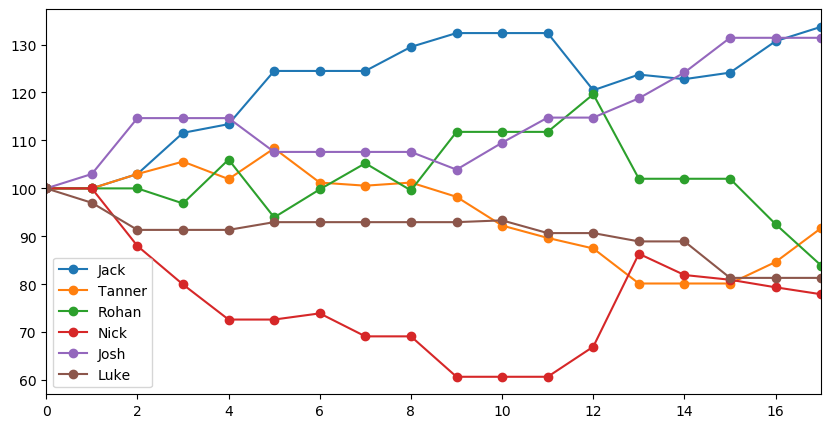
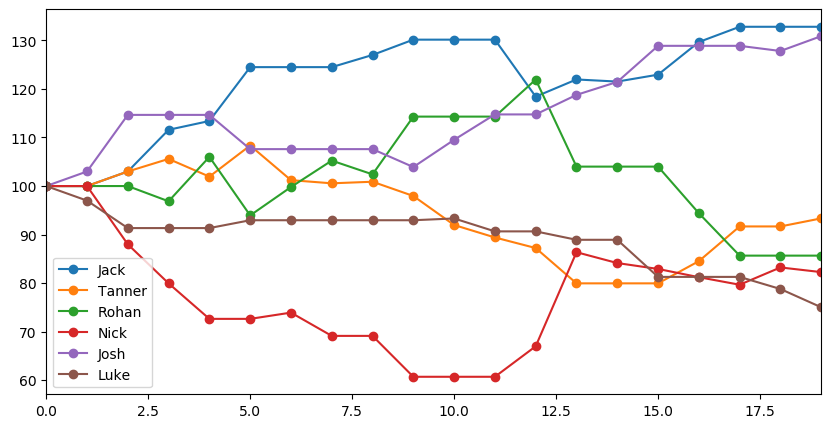
mar 18 update

diff --git a/index.html b/index.html
@@ -42,7 +42,7 @@
   <tr class="w3-white">
     <td>1</td>
     <td>Jack</td>
-    <td>133.7</td>
+    <td>132.8</td>
     <td>27-9-3</td>
     <td>0.731</td>
   </tr>
@@ -50,41 +50,41 @@
   <tr class="w3-white">
     <td>2</td>
     <td>Josh</td>
-    <td>131.4</td>
-    <td>19-6-2</td>
-    <td>0.741</td>
+    <td>130.9</td>
+    <td>23-7-2</td>
+    <td>0.75</td>
   </tr>
 
   <tr class="w3-white">
     <td>3</td>
     <td>Tanner</td>
-    <td>91.7</td>
-    <td>17-21-4</td>
-    <td>0.452</td>
+    <td>93.3</td>
+    <td>19-22-4</td>
+    <td>0.467</td>
   </tr>
 
   <tr class="w3-white">
     <td>4</td>
     <td>Rohan</td>
-    <td>83.9</td>
+    <td>85.7</td>
     <td>15-19-0</td>
     <td>0.441</td>
   </tr>
 
   <tr class="w3-white">
     <td>5</td>
-    <td>Luke</td>
-    <td>81.3</td>
-    <td>6-14-1</td>
-    <td>0.31</td>
+    <td>Nick</td>
+    <td>82.3</td>
+    <td>14-28-0</td>
+    <td>0.333</td>
   </tr>
 
   <tr class="w3-white">
     <td>6</td>
-    <td>Nick</td>
-    <td>77.9</td>
-    <td>11-26-0</td>
-    <td>0.297</td>
+    <td>Luke</td>
+    <td>75.0</td>
+    <td>6-19-1</td>
+    <td>0.25</td>
   </tr>
 
 
@@ -110,6 +110,86 @@
 </div>
 
 <div class="w3-container">
+<h4>Pickett Park &nbsp (3/17/2021)</h4>
+<table class="w3-table w3-striped w3-bordered">
+<tbody>
+
+<tr class="w3-theme">
+  <th><strong>Player</strong></th>
+  <th><strong>Score</strong></th>
+  <th><strong>Rating Change</strong></th>
+</tr>
+
+
+  <tr class="w3-white">
+    <td>Josh</td>
+    <td>1</td>
+    <td>+3.1</td>
+  </tr>
+
+  <tr class="w3-white">
+    <td>Tanner</td>
+    <td>3</td>
+    <td>+1.7</td>
+  </tr>
+
+  <tr class="w3-white">
+    <td>Nick</td>
+    <td>4</td>
+    <td>-1.0</td>
+  </tr>
+
+  <tr class="w3-white">
+    <td>Luke</td>
+    <td>6</td>
+    <td>-3.8</td>
+  </tr>
+
+
+</tbody>
+</table>
+<p></p>
+</div>
+
+<!-- Recent 2 -->
+<div class="w3-container">
+<h4>Slayter Hill &nbsp (3/16/2021)</h4>
+<table class="w3-table w3-striped w3-bordered">
+<tbody>
+
+<tr class="w3-theme">
+  <th><strong>Player</strong></th>
+  <th><strong>Score</strong></th>
+  <th><strong>Rating Change</strong></th>
+</tr>
+
+
+  <tr class="w3-white">
+    <td>Nick</td>
+    <td>-2</td>
+    <td>+3.6</td>
+  </tr>
+
+  <tr class="w3-white">
+    <td>Josh</td>
+    <td>1</td>
+    <td>-1.1</td>
+  </tr>
+
+  <tr class="w3-white">
+    <td>Luke</td>
+    <td>5</td>
+    <td>-2.5</td>
+  </tr>
+
+
+</tbody>
+</table>
+<p></p>
+</div>
+
+<!-- Recent 3 -->
+<div class="w3-container">
 <h4>Washout Woods &nbsp (3/13/2021)</h4>
 <table class="w3-table w3-striped w3-bordered">
 <tbody>
@@ -124,111 +204,25 @@
   <tr class="w3-white">
     <td>Jack</td>
     <td>4</td>
-    <td>+3.0</td>
+    <td>+3.1</td>
   </tr>
 
   <tr class="w3-white">
     <td>Tanner</td>
     <td>4</td>
-    <td>+7.1</td>
+    <td>+7.2</td>
   </tr>
 
   <tr class="w3-white">
     <td>Nick</td>
     <td>5</td>
-    <td>-1.5</td>
-  </tr>
-
-  <tr class="w3-white">
-    <td>Rohan</td>
-    <td>10</td>
-    <td>-8.6</td>
-  </tr>
-
-
-</tbody>
-</table>
-<p></p>
-</div>
-
-<!-- Recent 2 -->
-<div class="w3-container">
-<h4>Washout Waters &nbsp (3/13/2021)</h4>
-<table class="w3-table w3-striped w3-bordered">
-<tbody>
-
-<tr class="w3-theme">
-  <th><strong>Player</strong></th>
-  <th><strong>Score</strong></th>
-  <th><strong>Rating Change</strong></th>
-</tr>
-
-
-  <tr class="w3-white">
-    <td>Jack</td>
-    <td>-6</td>
-    <td>+6.6</td>
-  </tr>
-
-  <tr class="w3-white">
-    <td>Tanner</td>
-    <td>-5</td>
-    <td>+4.5</td>
-  </tr>
-
-  <tr class="w3-white">
-    <td>Nick</td>
-    <td>-3</td>
     <td>-1.6</td>
   </tr>
 
   <tr class="w3-white">
     <td>Rohan</td>
-    <td>-2</td>
-    <td>-9.5</td>
-  </tr>
-
-
-</tbody>
-</table>
-<p></p>
-</div>
-
-<!-- Recent 3 -->
-<div class="w3-container">
-<h4>Murdock Park &nbsp (3/12/2021)</h4>
-<table class="w3-table w3-striped w3-bordered">
-<tbody>
-
-<tr class="w3-theme">
-  <th><strong>Player</strong></th>
-  <th><strong>Score</strong></th>
-  <th><strong>Rating Change</strong></th>
-</tr>
-
-
-  <tr class="w3-white">
-    <td>Josh</td>
-    <td>-1</td>
-    <td>+7.2</td>
-  </tr>
-
-  <tr class="w3-white">
-    <td>Jack</td>
-    <td>2</td>
-    <td>+1.4</td>
-  </tr>
-
-  <tr class="w3-white">
-    <td>Nick</td>
-    <td>6</td>
-    <td>-1.0</td>
-  </tr>
-
-  <tr class="w3-white">
-    <td>Luke</td>
-    <td>9</td>
-    <td>-7.6</td>
+    <td>10</td>
+    <td>-8.7</td>
   </tr>
 
 
@@ -255,7 +249,7 @@
 </div>
 
 <div class="w3-container">
-  <p>Last Update: 03-13-2021</p>
+  <p>Last Update: 03-18-2021</p>
   <p>View All Data:
     <a href="info/all-data.html">Logged Rounds</a>
   </p>

diff --git a/info/all-data.html b/info/all-data.html
@@ -282,6 +282,34 @@
     <td></td>
   </tr>
 
+  <tr class="w3-white">
+    <td>18</td>
+    <td>2021-03-16</td>
+    <td>Slayter Hill</td>
+    <td>45</td>
+    <td>Low</td>
+    <td></td>
+    <td></td>
+    <td></td>
+    <td>-2</td>
+    <td>1</td>
+    <td>5</td>
+  </tr>
+
+  <tr class="w3-white">
+    <td>19</td>
+    <td>2021-03-17</td>
+    <td>Pickett Park</td>
+    <td>60</td>
+    <td>Low</td>
+    <td></td>
+    <td>3</td>
+    <td></td>
+    <td>4</td>
+    <td>1</td>
+    <td>6</td>
+  </tr>
+
 
 </tbody>
 </table>

diff --git a/build_website.py b/build_website.py
@@ -11,9 +11,10 @@ from datetime import datetime
 # =================================================================
 # read file
 file_path = "Disc Golf Log.xlsx"
-sheet_name = "Log"
 
-log = pd.read_excel(file_path, sheet_name=sheet_name)
+log = pd.read_excel(file_path, sheet_name="Log")
+courses = pd.read_excel(file_path, sheet_name="Courses")
+courses.index = courses['Name']
 # =================================================================
 
 
@@ -33,10 +34,10 @@ record = {p : [0, 0, 0] for p in players}
 
 # =================================================================
 # calculation helper functions
-def elo_change(e1, e2, result):
+def elo_change(e1, e2, result, weight=1.0):
   assert result==0 or result==1 or result==0.5
   expected = 1 / (1 + B**( (e2-e1)/SEP ))
-  return K*(result - expected)
+  return (K*weight) * (result-expected)
 
 
 def get_wins(round_no):
@@ -65,14 +66,26 @@ def get_ties(round_no):
   return ties
 
 
+def get_course_weight(round_no):
+  course = log.iloc[round_no-1]['Course']
+
+  if course not in courses.index:
+    return 1
+  elif courses.loc[course]['Holes'] < 10:
+    return 0.5
+  else:
+    return 1
+
+
 def update_elo(round_no):
+  wt = get_course_weight(round_no)
   wins = get_wins(round_no)
   ties = get_ties(round_no)
   current_elo = elo.copy()
 
   for p in wins.keys():
     for o in wins[p]:
-      change = elo_change(current_elo[p], current_elo[o], 1)
+      change = elo_change(current_elo[p], current_elo[o], 1, wt)
       elo[p] += change
       elo[o] -= change
 
@@ -81,7 +94,7 @@ def update_elo(round_no):
 
   for p in ties.keys():
     for o in ties[p]:
-      change = elo_change(current_elo[p], current_elo[o], 0.5)
+      change = elo_change(current_elo[p], current_elo[o], 0.5, wt)
       elo[p] += change
       record[p][2] += 1
 
